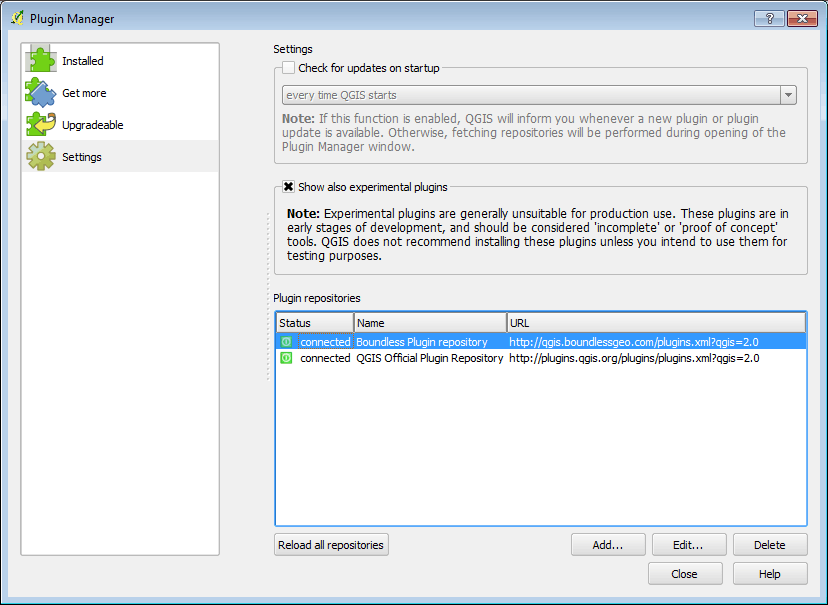
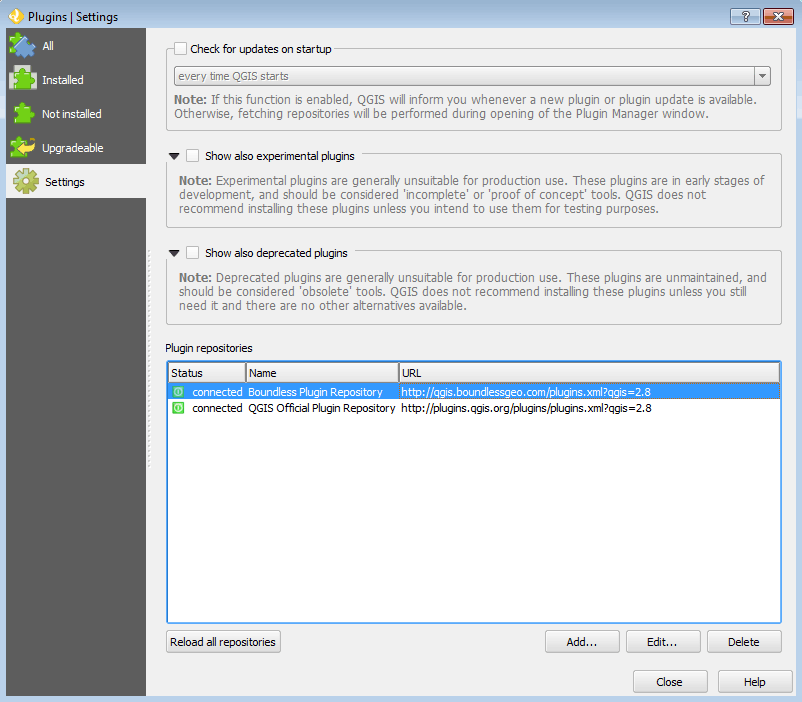
Improved installation instructions

diff --git a/doc/source/install.rst b/doc/source/install.rst
@@ -3,19 +3,18 @@
 Installation
 ============
 
-This section will describe how to install the OpenGeo Suite for QGIS plugin.
+This section will describe how to install the OpenGeo Explorer plugin.
 
-.. warning:: The OpenGeo Suite for QGIS plugin is not bundled with `OpenGeo Suite <http://boundlessgeo.com/solutions/opengeo-suite/>`_.
+Installing using the Plugin Manager (recommended)
+-------------------------------------------------
 
-The OpenGeo Suite plugin requires QGIS version 2.0 or higher to run. It is installed using the Plugin Manager.
+The OpenGeo Explorer plugin requires **QGIS version 2.8 or higher** to run. It is recommended to be installed using the QGIS Plugin Manager.
 
-#. Navigate to :menuselection:`Plugins --> Manage and Install Plugins`.
+#. In QGIS, navigate to :menuselection:`Plugins --> Manage and Install Plugins`.
 
 #. Click :guilabel:`Settings`
 
-#. As the plugin is still in development, it is tagged as "experimental." Check the box that says :guilabel:`Show also experimental plugins`.
-
-#. In the list of :guilabel:`Plugin repositories`, click :guilabel:`Add`.
+#. Scroll down to the bottom and click :guilabel:`Add`.
 
 #. Add the following repository to the list of plugin repositories:
 
@@ -28,24 +27,35 @@ The OpenGeo Suite plugin requires QGIS version 2.0 or higher to run. It is insta
 
 #. Click :guilabel:`OK`.
 
-#. Now the OpenGeo Suite plugin should be available and ready to be installed.
-
    .. figure:: img/actions/plugin_repo_added.png
 
       New plugin repository added successfully
 
- Click :guilabel:`Get More` to see a list of new plugins that can be installed.
+#. With the Boundless repository added, the OpenGeo Explorer plugin will not be available to be installed. Click :guilabel:`Not Installed` to see a list of all plugins.
 
-#. You should see one titled :guilabel:`OpenGeo Explorer`. Click :guilabel:`Install plugin`.
-
-   .. note:: If you don't see the plugin, ensure that you checked :guilabel:`Show also experimental plugins`.
+#. You should see one titled :guilabel:`OpenGeo Explorer`. Select it and click :guilabel:`Install plugin`.
 
    .. figure:: img/actions/plugin_install.png
 
-      OpenGeo in the list of plugins
+      OpenGeo Explorer in the list of plugins
 
-#. The plugin will be downloaded and installed. To verify that installation was successful, you should see a new menu in the menu bar called :guilabel:`OpenGeo`.
+#. The plugin will be installed. To verify that installation was successful, you should see a new menu in the QGIS menu bar called :guilabel:`OpenGeo`.
 
    .. figure:: img/actions/plugin_menu.png
 
       OpenGeo menu
+
+Installing from a ZIP file
+--------------------------
+
+If you have a copy of the plugin code in a ZIP file, you can install it by unzipping it into the QGIS plugins folder.
+
+* For Windows, it will be similar to :file:`C:\\Users\\<your_user>\\.qgis2\\python\\plugins`.
+* For Linux/Mac, it will be :file:`~/.qgis2/python/plugins`.
+
+Copy the ``opengeo`` folder in the ZIP file into your ``plugins`` folder. The ``plugin.py`` file should be in that folder. Form there you can enable the plugin as above.
+
+Getting the development version
+-------------------------------
+
+The plugin repository (http://qgis.boundlessgeo.com) is updated frequently. However, to be sure that you are using the latest development version, follow the steps described in the :ref:`developers <developers>` section.
